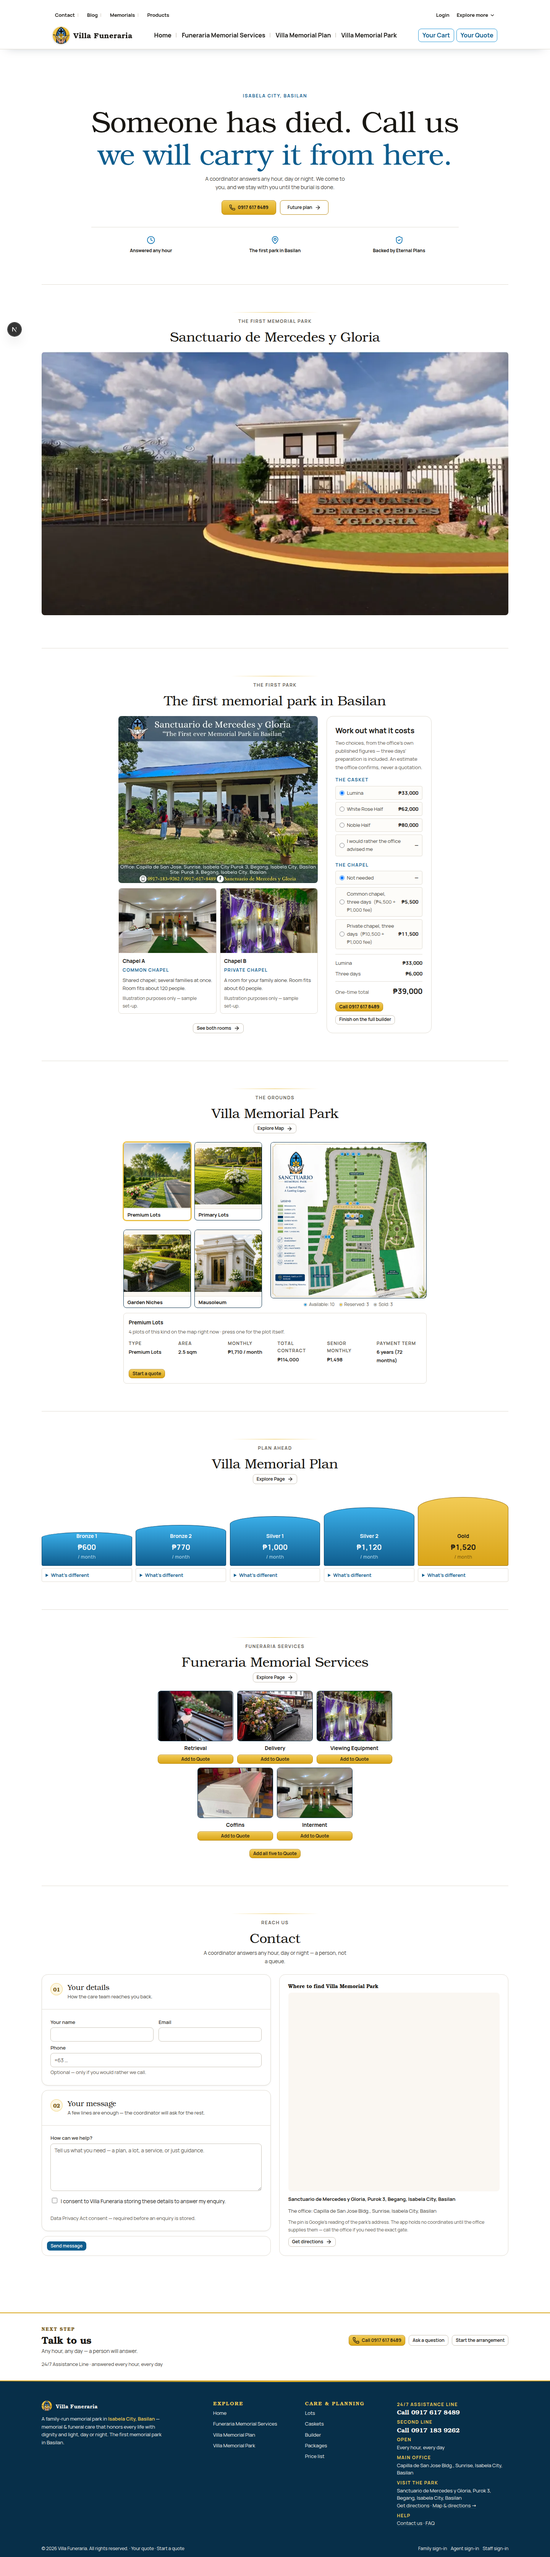
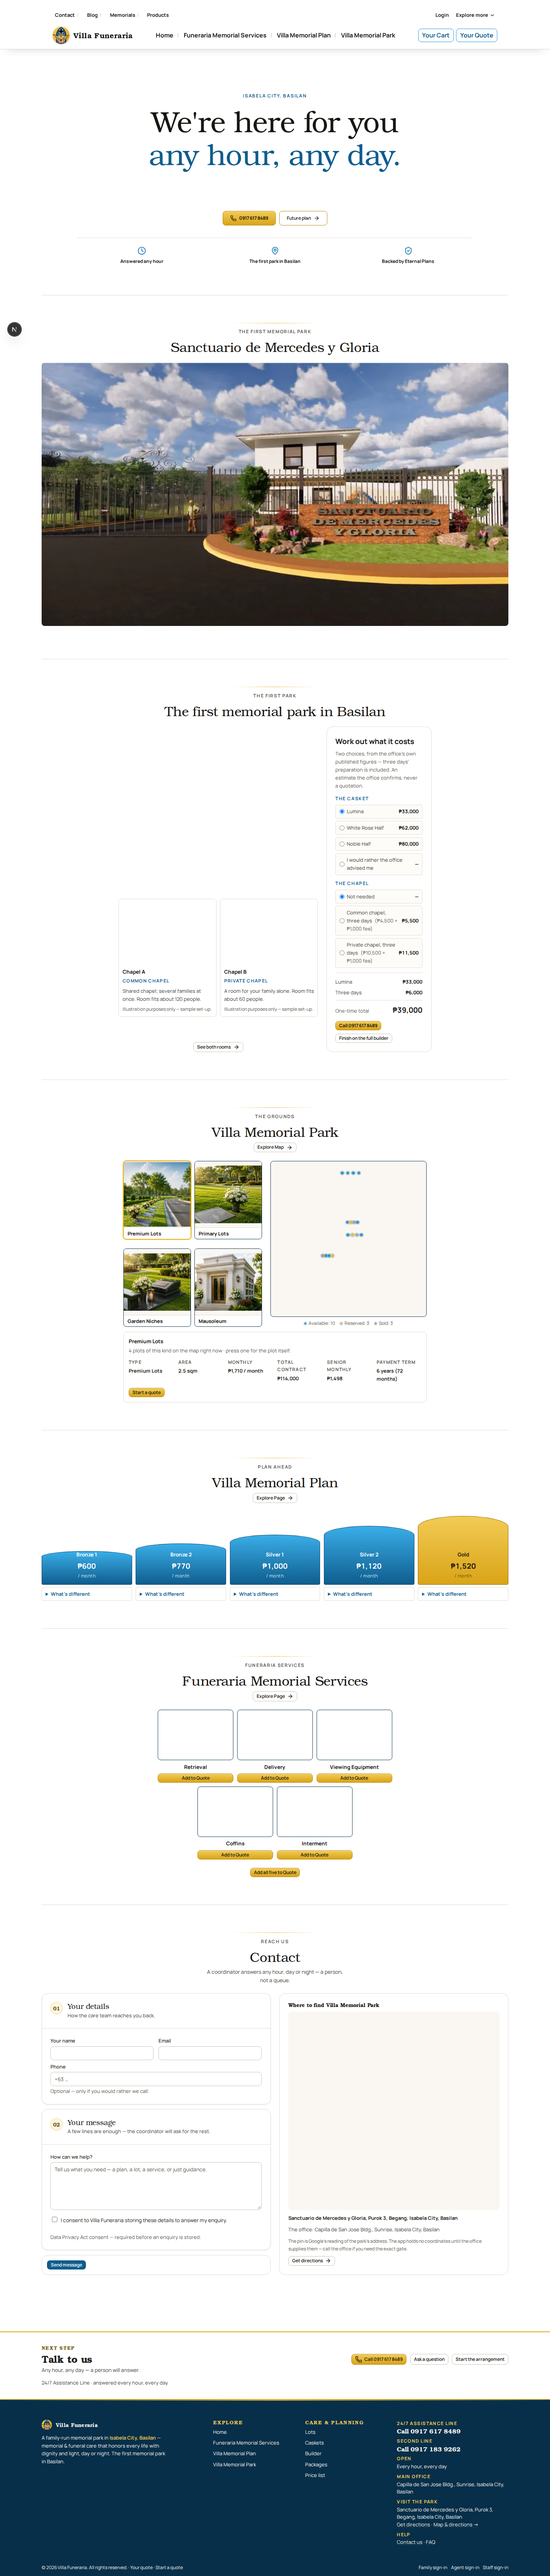
docs(home): the record on the rotated-title head — both pairs recaptured
The evidence is now a like-for-like pair on the rebased head: 'before' is main
@b250513 served on its own port, 'after' is this branch on :4004, the title set
frozen on set 1 in both. Measured on the head: 6741 -> 4953 px at 1440 (-27%),
9642 -> 7877 px at 390 (-18%), the h1 76.4px -> 35.2px, zero horizontal
overflow at both widths.

The record also states plainly where the branch sits (rebased onto b250513,
fast-forward merge pending) and how the office's rotating title set is kept as
band 1's h1 inside the re-vision: one rule declared for both the band's class
and the component's, the band-pause climbing to the section instead of a class
name, and the retired lead paragraph's rule gone with the paragraph.

diff --git a/docs/08-delivery/landing-revision-design/README.md b/docs/08-delivery/landing-revision-design/README.md
@@ -7,28 +7,47 @@ of them produced a much better output"*
 This is the record of that re-vision: the same product and the same truth, composed better.
 The route, the links, the figures and the contact details are unchanged.
 
-| | before (`c7ffd38`) | after |
+| | before (`main` @ `b250513`) | after |
 |---|---|---|
-| full page @ 1440 | **6692 px** | **4935 px** (−26%) |
-| full page @ 390 | **9703 px** | **7829 px** (−19%) |
-| screenshot weight @ 1440 | 2654 KB | 1490 KB |
-| screenshot weight @ 390 | 1947 KB | 887 KB |
+| full page @ 1440 | **6741 px** | **4953 px** (−27%) |
+| full page @ 390 | **9642 px** | **7877 px** (−18%) |
+| screenshot weight @ 1440 | 1475 KB | 932 KB |
+| screenshot weight @ 390 | 1003 KB | 523 KB |
 | bands | 7 | 6 |
-| images on the page | 16 | 12 |
-| the h1 | 76.4 px (a 1.5× "gateway type scale") | **35.2 px** (`--text-page-title`) |
+| the h1 @ 1440 | 76.4 px (a 1.5× "gateway type scale") | **35.2 px** (`--text-page-title`) |
+| horizontal overflow @ 1440 / 390 | 0 / 0 | 0 / 0 |
 
 Files: [`before-1440.png`](before-1440.png) · [`before-390.png`](before-390.png) ·
 [`after-1440.png`](after-1440.png) · [`after-390.png`](after-390.png) — full-page captures of
-`http://localhost:4004/`, production CSS, at 1440×900 and 390×844.
+the running site, production CSS, at 1440×900 and 390×844. Both pairs were **recaptured on the
+rebased head**: `before` is `main` @ `b250513` served on its own port, `after` is this branch
+served on `:4004`. The title set is frozen on set 1 in both, so the two captures are comparable.
 
-**Landed on `main` as the captain's pick.** The branch was rebased onto `main` (`11e359e`)
-after the merge, and the overlap resolved the way the steer asked: **main's gateway copy and
-its two-row opening** (`We're here for you` / `any hour, any day.`, the lead paragraph not
-printed, the browser-tab title `Villa Funeraria — here for you, any hour`) sitting inside
-**this six-band composition**, with the section-title pass, the dependency pass and the rest of
-`main`'s work untouched. The only contested file was `components/public/home-page.tsx`;
-`app/(public)/page.tsx` merged with both deltas intact. `lib/fixtures/landing/content.json` and
-`lib/fixtures/content/pages.json` are `main`'s, byte for byte.
+**Where this branch sits.** Rebased onto `main` @ `b250513`, so the merge is a clean
+fast-forward. Two files conflicted (`components/public/home-page.tsx`,
+`styles/components.css`) and both were resolved the way the steer asked — see **the rotating
+title** below. Everything else on `main` is untouched, fixtures included.
+
+## The rotating title (the office's, kept — `main` `b250513`)
+
+`main` turned the gateway title into an **unlimited, ordered set of title pairs** the office
+edits at `/staff/landing/home`, one at a time on an interval it sets, with the timing owned by
+`lib/home-title-rotation.ts` and the cross-fade by `components/public/home-title-rotator.tsx`.
+The re-vision **keeps it, and it is the band's h1** — the composition did not drop a feature
+to get a cleaner opening.
+
+- Band 1 renders `HomeTitleRotator` where the old static `<h1>` was. The band is
+  `aria-labelledby="home-gateway-title"`, the id the component stamps on the heading, so the
+  label still resolves to the office's own words.
+- The re-vision renames the band `.home-gateway` → `.home-open`, so the type step and the
+  promise line are declared for **both** the band's class and the component's
+  (`.home-open__title, .home-gateway__title { … }`) — **one rule, two selectors**. A rotating
+  title can never fall back to an unstyled `h1` mid-page; `home-styles.test.ts` pins it.
+- The component's band-pause now climbs to the enclosing `<section>` rather than to a class
+  name, so a renamed or re-visioned band still pauses the rotation on hover.
+- Measured: **one `h1`**, all three seeded sets in the DOM and stacked in one grid cell, the
+  inactive ones `aria-hidden`; 35.2 px at 1440 and 25.6 px at 390 — the ladder's own top step,
+  under the brief's ~40 px ceiling. The rotation changes no visual decision on this page.
 
 ---
 
@@ -40,15 +59,16 @@ those questions actually arrive, and **each band leads with exactly one dominant
 never a grid of equal boxes.
 
 **1 · The opening — the words lead, the park's own gate supports.**
-Eyebrow (`ISABELA CITY, BASILAN`) → the headline at the ladder's own top step, with the
-promise as its second line in the sky ink → the ONE action that matters at 3 a.m. (the 24/7
-number, gold) with the plan action beside it → three recorded facts under a hairline. **Two
-text rows, no lead paragraph** — the captain's own later call on `main` (6dc03dc, *"shorter,
-simpler, just relax"*): the any-hour promise already reads in the promise line, the call button
-and the ribbon, so a third line said it a third time. The photograph is the client's own
-picture of the park gate, at a 3:2 band-lead frame with a 22 rem ceiling, **beside** the words
-it supports. Before, the same picture was a full-bleed 74 rem band of its own — a band whose
-only content was a 1184 px image, which is the "unnecessary large imagery" the brief names.
+Eyebrow (`ISABELA CITY, BASILAN`) → the office's **rotating title set** at the ladder's own top
+step, each set's promise as its second line in the sky ink → the ONE action that matters at
+3 a.m. (the 24/7 number, gold) with the plan action beside it → three recorded facts under a
+hairline. **Two text rows, no lead paragraph** — the captain's own later call on `main` (6dc03dc,
+*"shorter, simpler, just relax"*): the any-hour promise already reads in the promise line, the
+call button and the ribbon, so a third line said it a third time. The photograph is the client's
+own picture of the park gate, at a 3:2 band-lead frame with a 22 rem ceiling, **beside** the
+words it supports. Before, the same picture was a full-bleed 74 rem band of its own — a band
+whose only content was a 1184 px image, which is the "unnecessary large imagery" the brief
+names.
 
 **2 · Arrange it — the live cost builder leads.**
 The builder is the only element on the page that answers *"what will this cost"* with the
@@ -101,7 +121,8 @@ client JS.
   the shared `SectionHead` shape — kicker, title, one action at the right — and each band has
   exactly one dominant element.
 - **The 1.5× "gateway type scale"** (76.4 px rendered) and with it the last type above the
-  ladder's top step. Hierarchy is weight, colour and space.
+  ladder's top step. Hierarchy is weight, colour and space. (The title it scaled is still here —
+  it just rotates now, at 35.2 px.)
 
 ## Uniform section width (captain, 2026-10-02)
 
@@ -109,7 +130,8 @@ The brief's follow-up: *the 2nd, 5th and 6th sections must share the same conten
 others.* Every band is a direct child of `.home`, no band/grid/inner panel declares a second
 measure, and the only `max-width` left in the block bounds a **paragraph**, never a band's
 content. Measured at 1440, all six bands are **1222 px at left 109**; at 390, all six are
-**345 px at left 22**, and `document.scrollWidth === 390` — no sideways scroll.
+**345 px at left 22**, and `document.scrollWidth === 390` — no sideways scroll (re-measured on
+the rebased head: 0 px of overflow at both widths).
 
 `tests/unit/home-styles.test.ts` now pins this ("gives every band the SAME content width"), so
 the next band that reaches for its own envelope fails the gate.
